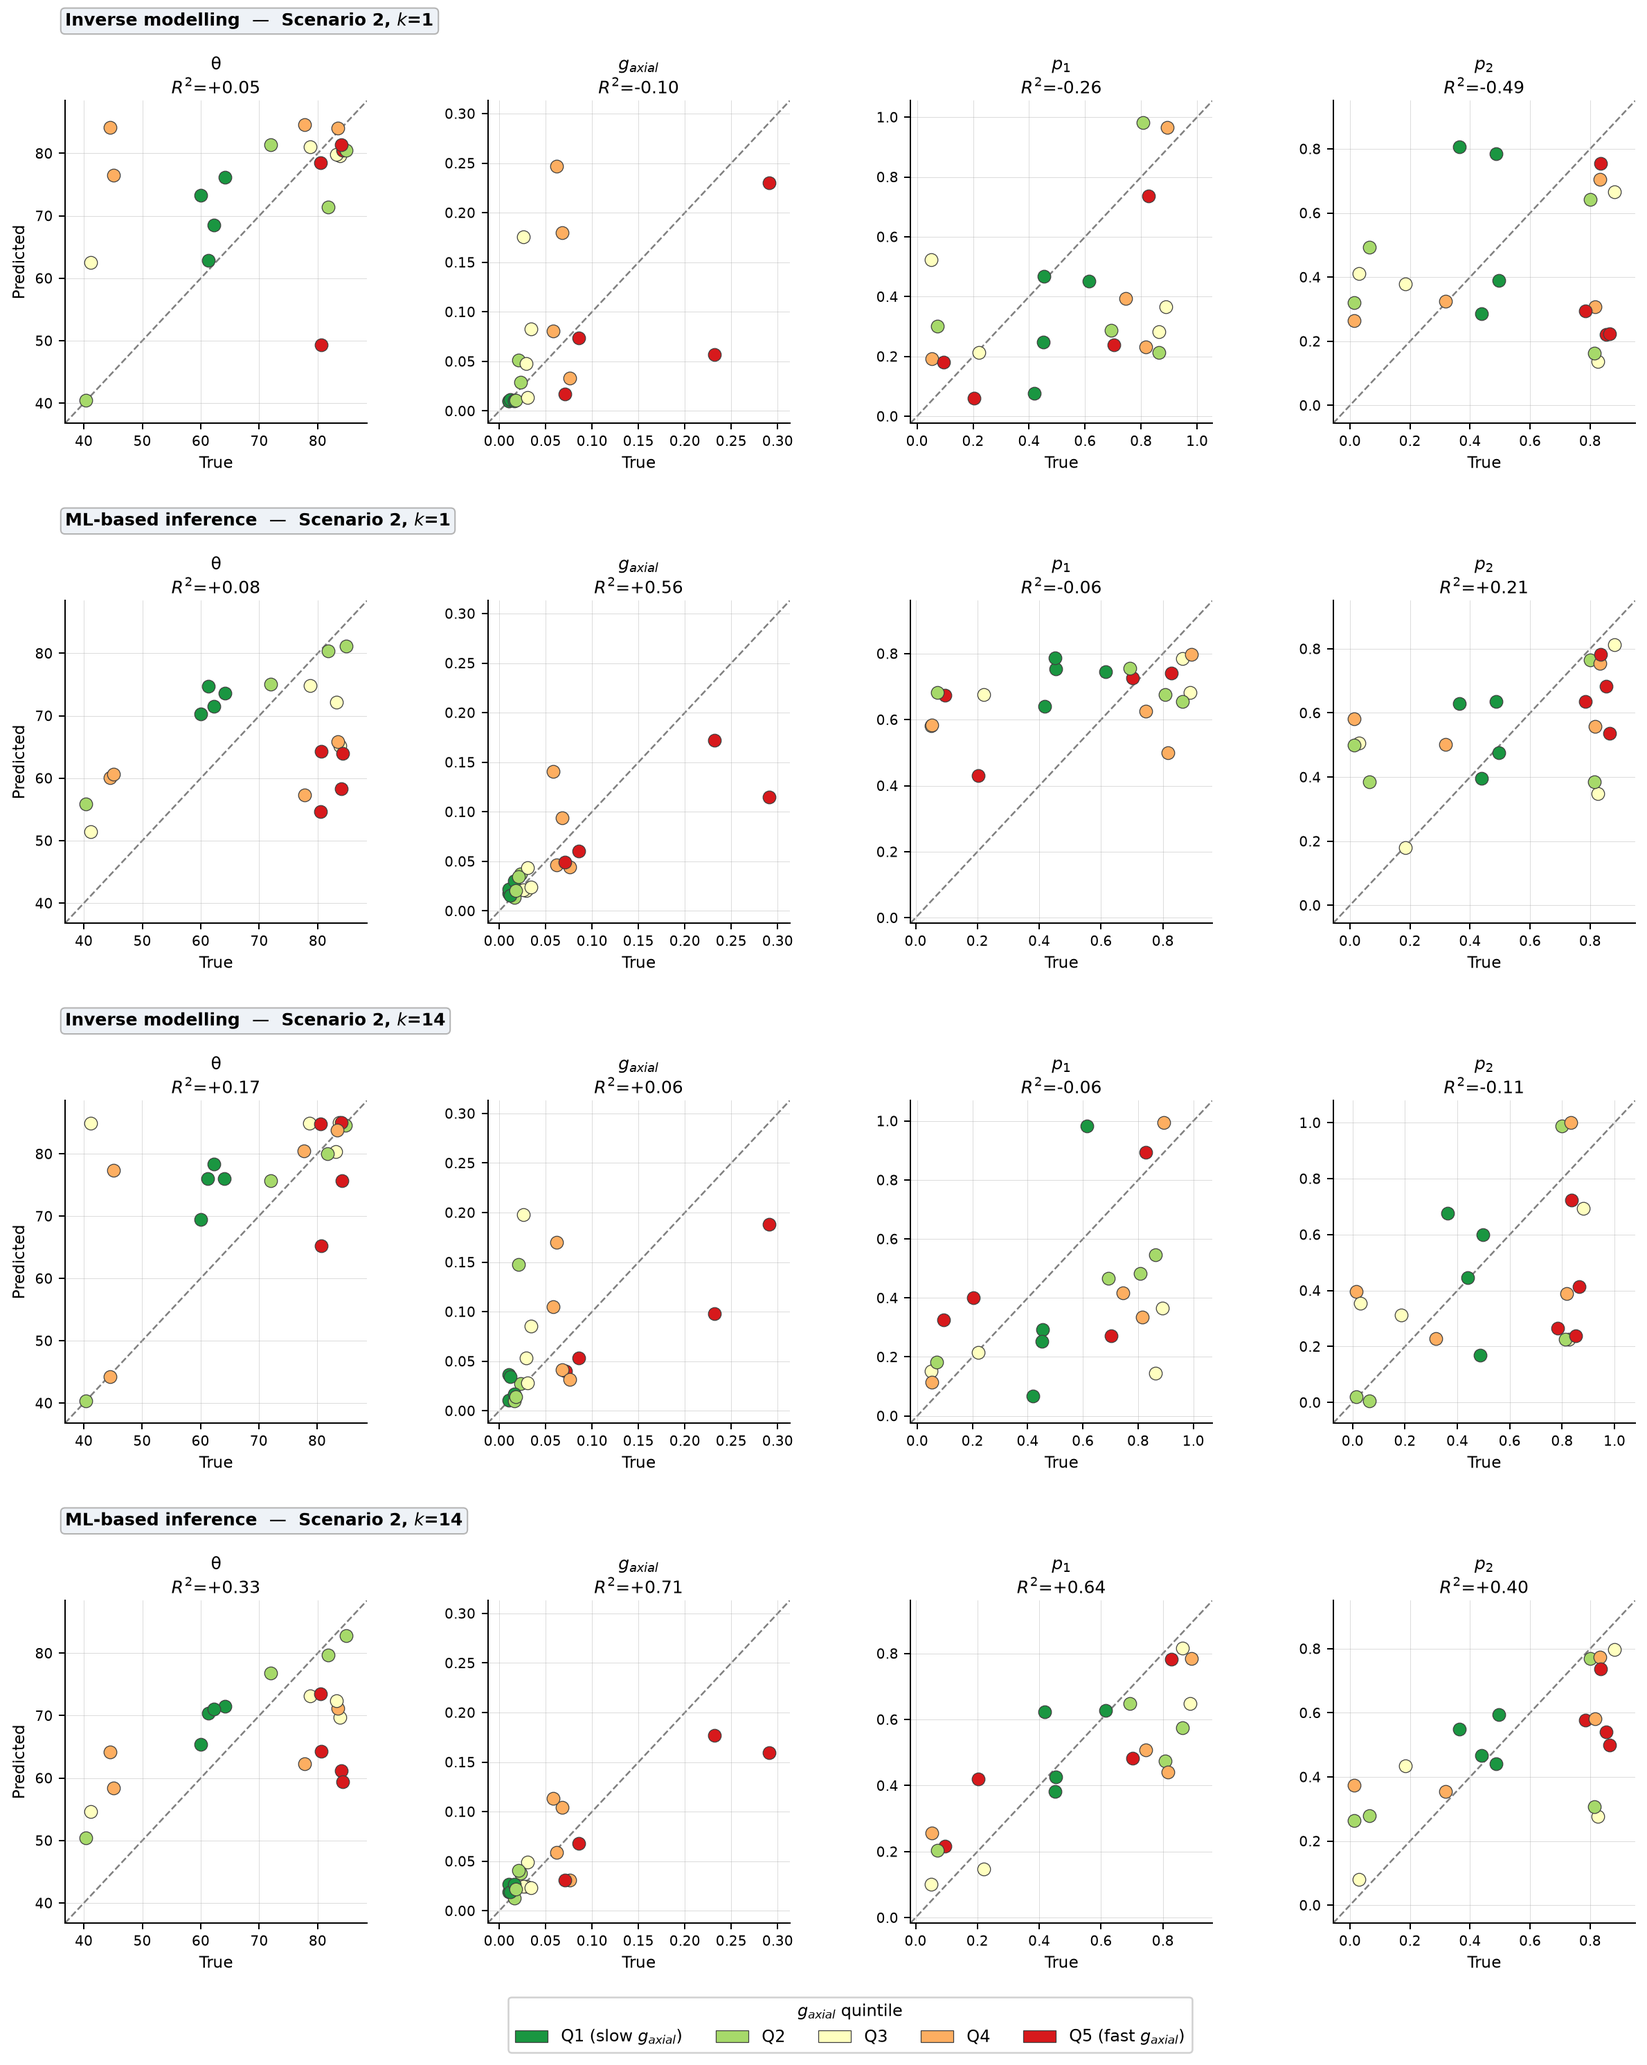
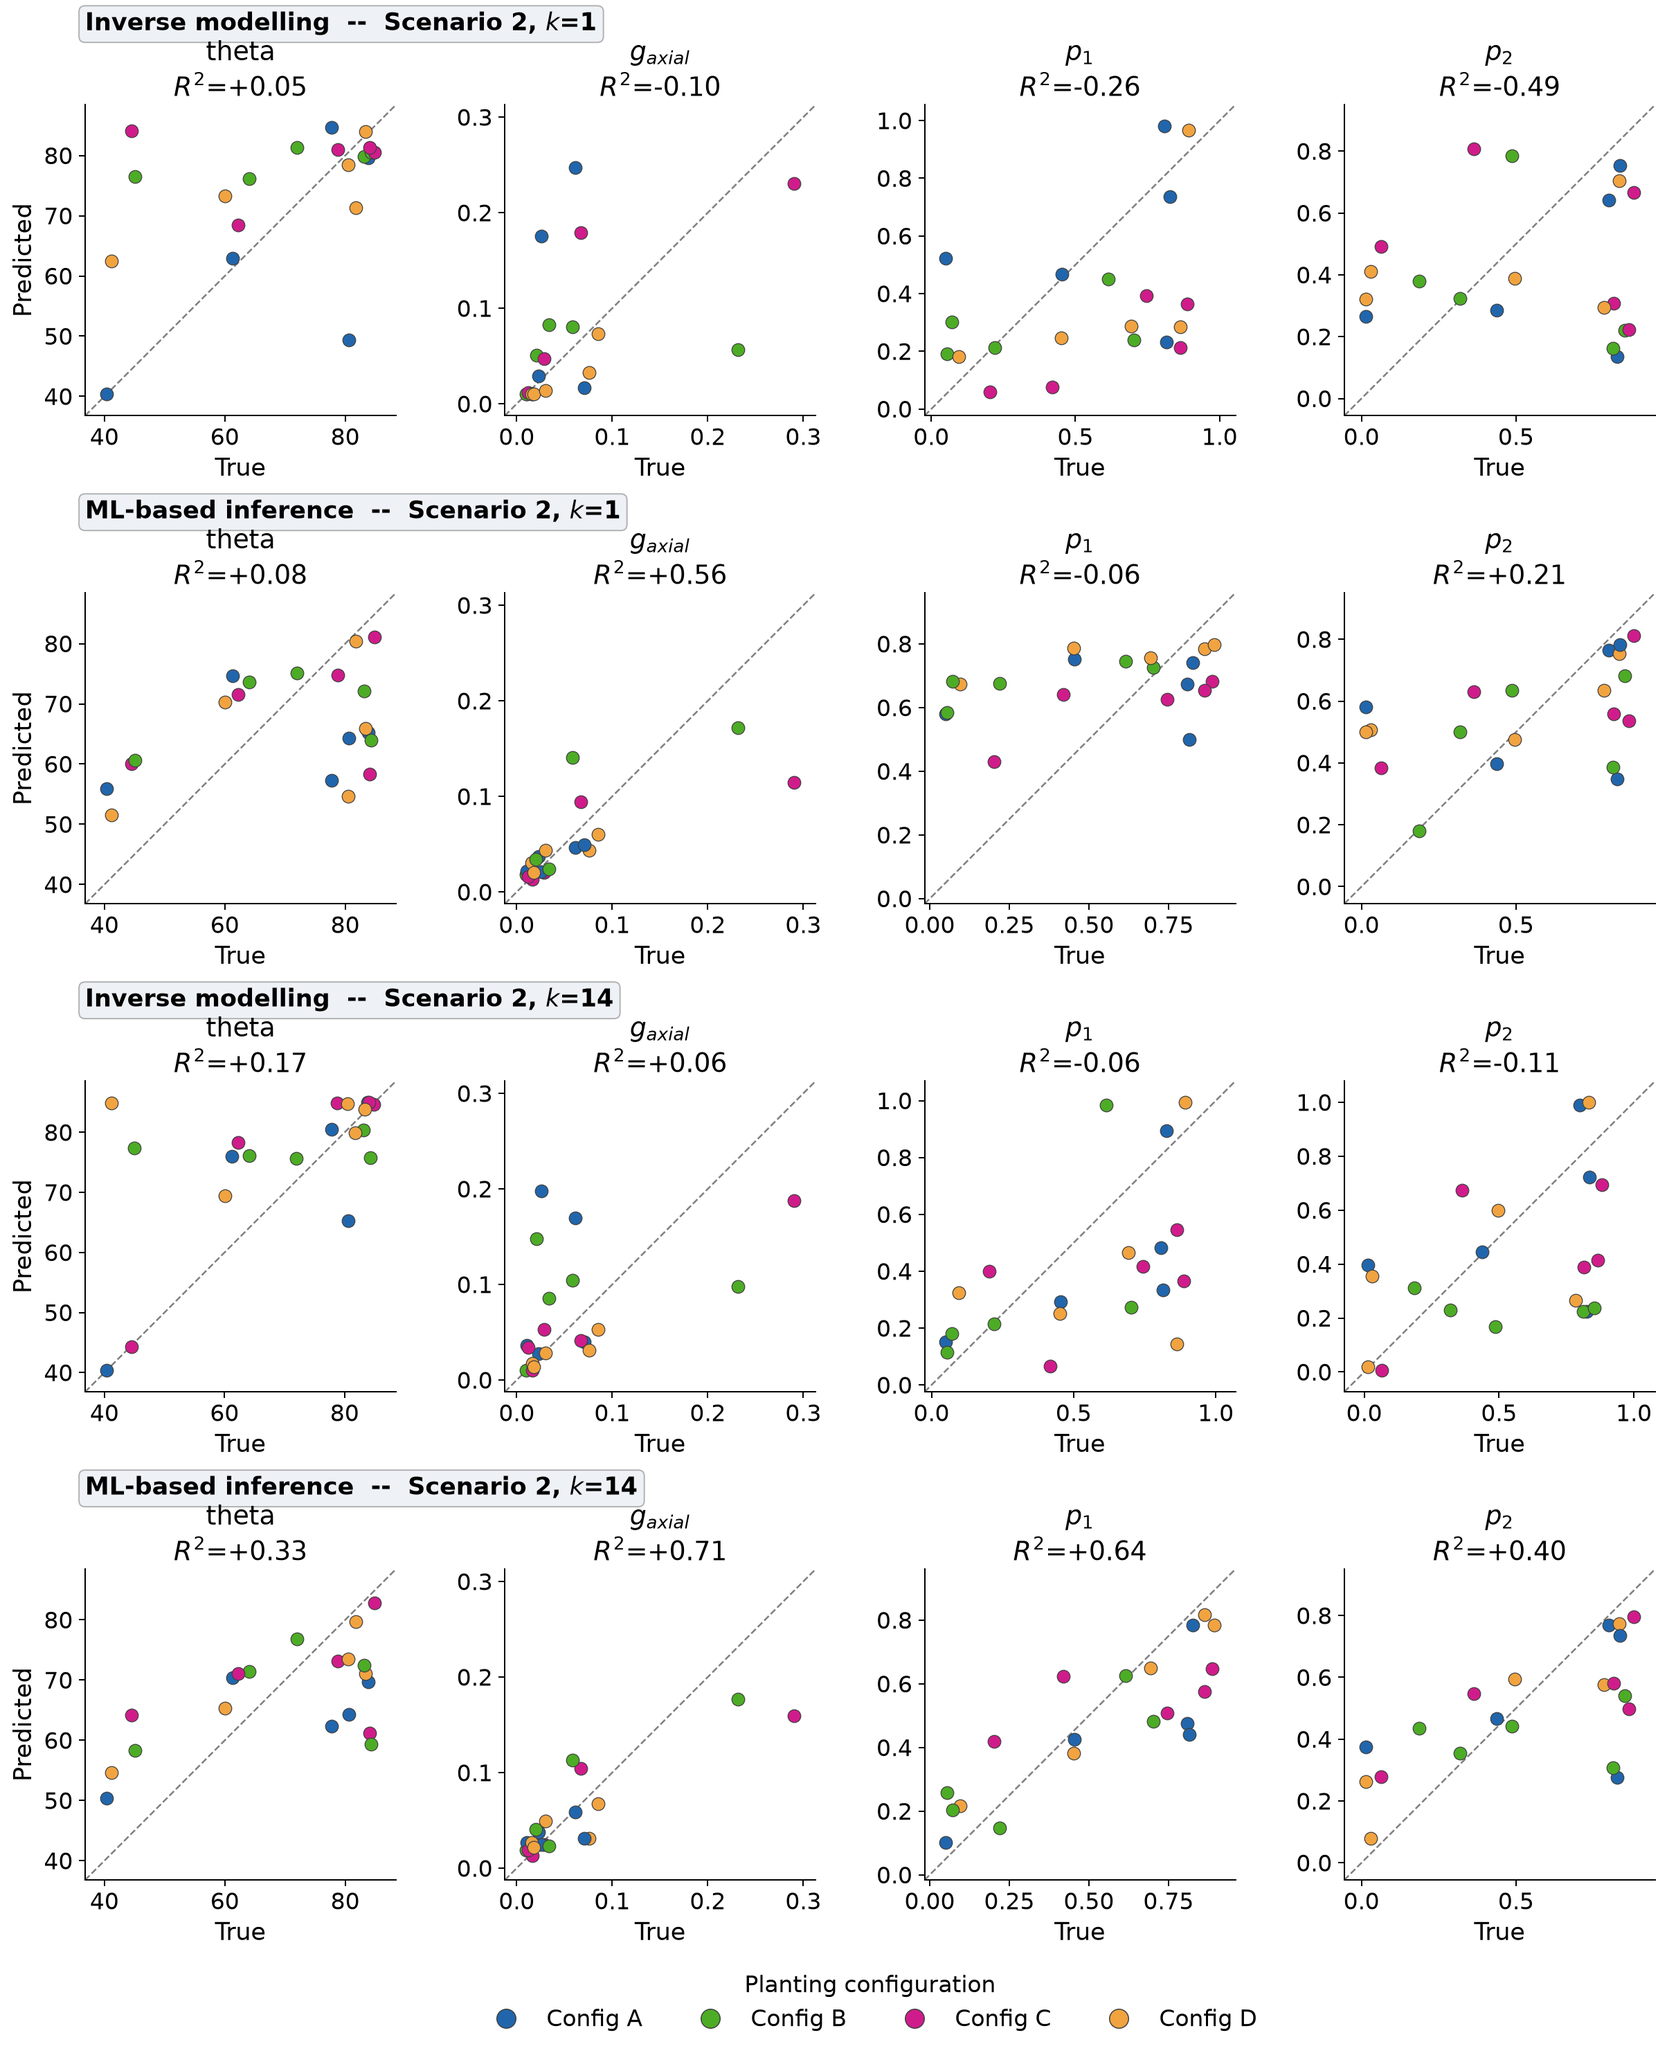
Apply same style updates to Fig S2 and S3 as Fig 3/4
- Color by planting configuration (A/B/C/D) instead of g_axial quintile
- Circle legend markers (Line2D marker="o"), frameon=False
- Larger fonts: titles 12-15pt, axis labels 11-14pt, ticks 10-13pt
- Narrower spacing (hspace=0.45, wspace=0.35)
- Remove grid lines (ax.grid(False))
- Add set_aspect("equal") for 1:1 axes

diff --git a/publication/scripts/plot_figS3_parameter_recovery_k1_k14_s2.py b/publication/scripts/plot_figS3_parameter_recovery_k1_k14_s2.py
@@ -2,9 +2,9 @@
 plot_figS3_parameter_recovery_k1_k14_s2.py
 
 Figure S3 — Parameter recovery at k=1 and k=14, Scenario 2 (4 arch params).
-Layout: 4 rows × 4 cols
-  Rows 0–1: k=1  (CMA-ES, TabICL)
-  Rows 2–3: k=14 (CMA-ES, TabICL)
+Layout: 4 rows x 4 cols
+  Rows 0-1: k=1  (CMA-ES, TabICL)
+  Rows 2-3: k=14 (CMA-ES, TabICL)
 
 Run from project root:
   python3 publication/scripts/plot_figS3_parameter_recovery_k1_k14_s2.py
@@ -17,7 +17,7 @@ import pandas as pd
 import matplotlib
 matplotlib.use("Agg")
 import matplotlib.pyplot as plt
-import matplotlib.patches as mpatches
+from matplotlib.lines import Line2D
 
 ROOT    = os.path.join(os.path.dirname(os.path.abspath(__file__)), "..", "..")
 CALIB   = os.path.join(ROOT, "calibration")
@@ -29,16 +29,14 @@ TC_CSV  = os.path.join(CALIB, "test_cases_selected_v2.csv")
 ARCH_PARAMS = ["branch_angle_order1", "g_axial",
                "branching_prob_order1", "branching_prob_order2"]
 PARAM_LABELS = {
-    "branch_angle_order1":   "θ",
+    "branch_angle_order1":   "theta",
     "g_axial":               "$g_{axial}$",
     "branching_prob_order1": "$p_1$",
     "branching_prob_order2": "$p_2$",
 }
-Q_ORDER  = ["Q1", "Q2", "Q3", "Q4", "Q5"]
-Q_COLORS = {"Q1": "#1a9641", "Q2": "#a6d96a", "Q3": "#ffffbf",
-            "Q4": "#fdae61", "Q5": "#d7191c"}
-Q_LABELS = {"Q1": "Q1 (slow $g_{axial}$)", "Q2": "Q2", "Q3": "Q3",
-            "Q4": "Q4", "Q5": "Q5 (fast $g_{axial}$)"}
+CFG_ORDER  = ["A", "B2", "C", "D2"]
+CFG_COLORS = {"A": "#2166ac", "B2": "#4dac26", "C": "#d01c8b", "D2": "#f1a340"}
+CFG_LABEL  = {"A": "Config A", "B2": "Config B", "C": "Config C", "D2": "Config D"}
 
 K_CONFIGS = [
     {"k": 1,  "cma_suffix": "s2",
@@ -67,8 +65,7 @@ def load_cmae(tc, suffix):
             continue
         with open(path) as f:
             bp = json.load(f)
-        row = {"config": r["config"], "sample_id": int(r["sample_id"]),
-               "g_axial_quintile": r["g_axial_quintile"]}
+        row = {"config": r["config"], "sample_id": int(r["sample_id"])}
         for p in ARCH_PARAMS:
             row[f"true_{p}"] = float(r[p])
             row[f"pred_{p}"] = float(bp[p]) if p in bp else float("nan")
@@ -84,8 +81,7 @@ def load_tabicl(tc, csv_path):
         tc_row = tc[(tc["sample_id"] == int(sid)) & (tc["config"] == cfg)]
         if len(tc_row) == 0:
             continue
-        row = {"config": cfg, "sample_id": int(sid),
-               "g_axial_quintile": tc_row["g_axial_quintile"].values[0]}
+        row = {"config": cfg, "sample_id": int(sid)}
         for p in ARCH_PARAMS:
             prow = grp[grp["parameter"] == p]
             row[f"true_{p}"] = float(prow["true_value"].values[0]) if len(prow) else float("nan")
@@ -102,14 +98,14 @@ for cfg in K_CONFIGS:
     cmae_df = load_cmae(tc, cfg["cma_suffix"])
     tab_df  = load_tabicl(tc, cfg["tab_csv"])
     print(f"k={k}: CMA-ES={len(cmae_df)}, TabICL={len(tab_df)}")
-    ROW_CONFIGS.append((cmae_df, f"Inverse modelling  —  Scenario 2, $k$={k}"))
-    ROW_CONFIGS.append((tab_df,  f"ML-based inference  —  Scenario 2, $k$={k}"))
+    ROW_CONFIGS.append((cmae_df, f"Inverse modelling  --  Scenario 2, $k$={k}"))
+    ROW_CONFIGS.append((tab_df,  f"ML-based inference  --  Scenario 2, $k$={k}"))
 
-# ── Plot 4×4 ──────────────────────────────────────────────────────────────────
+# Plot 4x4
 
 fig, axes = plt.subplots(4, 4, figsize=(14, 17))
-fig.subplots_adjust(left=0.07, right=0.97, top=0.93, bottom=0.07,
-                    hspace=0.55, wspace=0.40)
+fig.subplots_adjust(left=0.07, right=0.97, top=0.93, bottom=0.08,
+                    hspace=0.45, wspace=0.35)
 
 for row_idx, (df, row_label) in enumerate(ROW_CONFIGS):
     for col_idx, param in enumerate(ARCH_PARAMS):
@@ -130,37 +126,39 @@ for row_idx, (df, row_label) in enumerate(ROW_CONFIGS):
             if np.isnan(tv[idx]) or np.isnan(pv[idx]):
                 continue
             ax.scatter(tv[idx], pv[idx],
-                       color=Q_COLORS.get(r["g_axial_quintile"], "gray"),
+                       color=CFG_COLORS.get(r["config"], "gray"),
                        edgecolors="0.25", linewidths=0.5, s=55, zorder=3)
 
         r2 = r2_score(tv, pv)
         ax.set_xlim(lo, hi)
         ax.set_ylim(lo, hi)
-        ax.set_xlabel("True", fontsize=9)
-        ax.set_ylabel("Predicted", fontsize=9) if col_idx == 0 else ax.set_ylabel("")
-        ax.tick_params(labelsize=8)
-        ax.grid(True, lw=0.35, alpha=0.5)
+        ax.set_aspect("equal")
+        ax.set_xlabel("True", fontsize=14)
+        ax.set_ylabel("Predicted", fontsize=14) if col_idx == 0 else ax.set_ylabel("")
+        ax.tick_params(labelsize=13)
+        ax.grid(False)
         ax.spines["top"].set_visible(False)
         ax.spines["right"].set_visible(False)
-        ax.set_title(f"{PARAM_LABELS[param]}\n$R^2$={r2:+.2f}", fontsize=10, pad=4)
+        ax.set_title(f"{PARAM_LABELS[param]}\n$R^2$={r2:+.2f}", fontsize=15, pad=4)
 
     axes[row_idx, 0].annotate(
         row_label,
         xy=(0.0, 1.22), xycoords="axes fraction",
-        fontsize=10, fontweight="bold", ha="left", va="bottom",
+        fontsize=14, fontweight="bold", ha="left", va="bottom",
         bbox=dict(boxstyle="round,pad=0.25", fc="#eef2f7", ec="0.7", lw=0.8))
 
-# ── Legend ────────────────────────────────────────────────────────────────────
+# Legend
 
-legend_patches = [
-    mpatches.Patch(facecolor=Q_COLORS[q], edgecolor="0.25",
-                   linewidth=0.5, label=Q_LABELS[q])
-    for q in Q_ORDER
+legend_handles = [
+    Line2D([0], [0], marker="o", color="w",
+           markerfacecolor=CFG_COLORS[c], markeredgecolor="0.25",
+           markeredgewidth=0.6, markersize=11, label=CFG_LABEL[c])
+    for c in CFG_ORDER
 ]
-fig.legend(handles=legend_patches, title="$g_{axial}$ quintile",
-           loc="lower center", ncol=5, fontsize=9.5, title_fontsize=9.5,
-           framealpha=0.9, bbox_to_anchor=(0.52, 0.005))
+fig.legend(handles=legend_handles, title="Planting configuration",
+           loc="lower center", ncol=4, fontsize=13, title_fontsize=13,
+           frameon=False, bbox_to_anchor=(0.52, 0.005))
 
 os.makedirs(os.path.dirname(FIG_OUT), exist_ok=True)
 fig.savefig(FIG_OUT, dpi=180, bbox_inches="tight", facecolor="white")
-print(f"Saved → {FIG_OUT}")
+print(f"Saved -> {FIG_OUT}")

diff --git a/publication/scripts/plot_figS2_parameter_recovery_k1_k14.py b/publication/scripts/plot_figS2_parameter_recovery_k1_k14.py
@@ -2,9 +2,9 @@
 plot_figS2_parameter_recovery_k1_k14.py
 
 Figure S2 — Parameter recovery at k=1 and k=14, Scenario 1 (all 8 params).
-Layout: 4 rows × 8 cols
-  Rows 0–1: k=1  (CMA-ES, TabICL)
-  Rows 2–3: k=14 (CMA-ES, TabICL)
+Layout: 4 rows x 8 cols
+  Rows 0-1: k=1  (CMA-ES, TabICL)
+  Rows 2-3: k=14 (CMA-ES, TabICL)
 
 Run from project root:
   python3 publication/scripts/plot_figS2_parameter_recovery_k1_k14.py
@@ -17,7 +17,7 @@ import pandas as pd
 import matplotlib
 matplotlib.use("Agg")
 import matplotlib.pyplot as plt
-import matplotlib.patches as mpatches
+from matplotlib.lines import Line2D
 
 ROOT    = os.path.join(os.path.dirname(os.path.abspath(__file__)), "..", "..")
 CALIB   = os.path.join(ROOT, "calibration")
@@ -36,16 +36,14 @@ PARAM_LABELS = {
     "elongation_rate_max":    "$r_{max}$",
     "elongation_logistic_k":  "$k_e$",
     "elongation_logistic_t50":"$t_{50}$",
-    "branch_angle_order1":    "θ",
+    "branch_angle_order1":    "theta",
     "g_axial":                "$g_{axial}$",
     "branching_prob_order1":  "$p_1$",
     "branching_prob_order2":  "$p_2$",
 }
-Q_ORDER  = ["Q1", "Q2", "Q3", "Q4", "Q5"]
-Q_COLORS = {"Q1": "#1a9641", "Q2": "#a6d96a", "Q3": "#ffffbf",
-            "Q4": "#fdae61", "Q5": "#d7191c"}
-Q_LABELS = {"Q1": "Q1 (slow $g_{axial}$)", "Q2": "Q2", "Q3": "Q3",
-            "Q4": "Q4", "Q5": "Q5 (fast $g_{axial}$)"}
+CFG_ORDER  = ["A", "B2", "C", "D2"]
+CFG_COLORS = {"A": "#2166ac", "B2": "#4dac26", "C": "#d01c8b", "D2": "#f1a340"}
+CFG_LABEL  = {"A": "Config A", "B2": "Config B", "C": "Config C", "D2": "Config D"}
 
 K_CONFIGS = [
     {"k": 1,  "cma_suffix": "s1",
@@ -74,8 +72,7 @@ def load_cmae(tc, suffix):
             continue
         with open(path) as f:
             bp = json.load(f)
-        row = {"config": r["config"], "sample_id": int(r["sample_id"]),
-               "g_axial_quintile": r["g_axial_quintile"]}
+        row = {"config": r["config"], "sample_id": int(r["sample_id"])}
         for p in ALL_PARAMS:
             row[f"true_{p}"] = float(r[p]) if p in r.index else float("nan")
             row[f"pred_{p}"] = float(bp[p]) if p in bp else float("nan")
@@ -91,8 +88,7 @@ def load_tabicl(tc, csv_path):
         tc_row = tc[(tc["sample_id"] == int(sid)) & (tc["config"] == cfg)]
         if len(tc_row) == 0:
             continue
-        row = {"config": cfg, "sample_id": int(sid),
-               "g_axial_quintile": tc_row["g_axial_quintile"].values[0]}
+        row = {"config": cfg, "sample_id": int(sid)}
         for p in ALL_PARAMS:
             prow = grp[grp["parameter"] == p]
             row[f"true_{p}"] = float(prow["true_value"].values[0]) if len(prow) else float("nan")
@@ -109,14 +105,14 @@ for cfg in K_CONFIGS:
     cmae_df = load_cmae(tc, cfg["cma_suffix"])
     tab_df  = load_tabicl(tc, cfg["tab_csv"])
     print(f"k={k}: CMA-ES={len(cmae_df)}, TabICL={len(tab_df)}")
-    ROW_CONFIGS.append((cmae_df, f"Inverse modelling  —  Scenario 1, $k$={k}"))
-    ROW_CONFIGS.append((tab_df,  f"ML-based inference  —  Scenario 1, $k$={k}"))
+    ROW_CONFIGS.append((cmae_df, f"Inverse modelling  --  Scenario 1, $k$={k}"))
+    ROW_CONFIGS.append((tab_df,  f"ML-based inference  --  Scenario 1, $k$={k}"))
 
-# ── Plot 4×8 ──────────────────────────────────────────────────────────────────
+# Plot 4x8
 
 fig, axes = plt.subplots(4, 8, figsize=(26, 17))
-fig.subplots_adjust(left=0.04, right=0.98, top=0.93, bottom=0.07,
-                    hspace=0.55, wspace=0.42)
+fig.subplots_adjust(left=0.04, right=0.98, top=0.93, bottom=0.08,
+                    hspace=0.45, wspace=0.35)
 
 for row_idx, (df, row_label) in enumerate(ROW_CONFIGS):
     for col_idx, param in enumerate(ALL_PARAMS):
@@ -142,37 +138,39 @@ for row_idx, (df, row_label) in enumerate(ROW_CONFIGS):
             if np.isnan(tv[idx]) or np.isnan(pv[idx]):
                 continue
             ax.scatter(tv[idx], pv[idx],
-                       color=Q_COLORS.get(r["g_axial_quintile"], "gray"),
+                       color=CFG_COLORS.get(r["config"], "gray"),
                        edgecolors="0.25", linewidths=0.5, s=45, zorder=3)
 
         r2 = r2_score(tv, pv)
         ax.set_xlim(lo, hi)
         ax.set_ylim(lo, hi)
-        ax.set_xlabel("True", fontsize=9)
-        ax.set_ylabel("Predicted", fontsize=9) if col_idx == 0 else ax.set_ylabel("")
-        ax.tick_params(labelsize=8)
-        ax.grid(True, lw=0.35, alpha=0.5)
+        ax.set_aspect("equal")
+        ax.set_xlabel("True", fontsize=11)
+        ax.set_ylabel("Predicted", fontsize=11) if col_idx == 0 else ax.set_ylabel("")
+        ax.tick_params(labelsize=10)
+        ax.grid(False)
         ax.spines["top"].set_visible(False)
         ax.spines["right"].set_visible(False)
-        ax.set_title(f"{PARAM_LABELS[param]}\n$R^2$={r2:+.2f}", fontsize=10, pad=3)
+        ax.set_title(f"{PARAM_LABELS[param]}\n$R^2$={r2:+.2f}", fontsize=12, pad=3)
 
     axes[row_idx, 0].annotate(
         row_label,
         xy=(0.0, 1.24), xycoords="axes fraction",
-        fontsize=10, fontweight="bold", ha="left", va="bottom",
+        fontsize=12, fontweight="bold", ha="left", va="bottom",
         bbox=dict(boxstyle="round,pad=0.28", fc="#eef2f7", ec="0.7", lw=0.8))
 
-# ── Legend ────────────────────────────────────────────────────────────────────
+# Legend
 
-legend_patches = [
-    mpatches.Patch(facecolor=Q_COLORS[q], edgecolor="0.25",
-                   linewidth=0.5, label=Q_LABELS[q])
-    for q in Q_ORDER
+legend_handles = [
+    Line2D([0], [0], marker="o", color="w",
+           markerfacecolor=CFG_COLORS[c], markeredgecolor="0.25",
+           markeredgewidth=0.6, markersize=11, label=CFG_LABEL[c])
+    for c in CFG_ORDER
 ]
-fig.legend(handles=legend_patches, title="$g_{axial}$ quintile",
-           loc="lower center", ncol=5, fontsize=9.5, title_fontsize=9.5,
-           framealpha=0.9, bbox_to_anchor=(0.52, 0.005))
+fig.legend(handles=legend_handles, title="Planting configuration",
+           loc="lower center", ncol=4, fontsize=12, title_fontsize=12,
+           frameon=False, bbox_to_anchor=(0.52, 0.005))
 
 os.makedirs(os.path.dirname(FIG_OUT), exist_ok=True)
 fig.savefig(FIG_OUT, dpi=180, bbox_inches="tight", facecolor="white")
-print(f"Saved → {FIG_OUT}")
+print(f"Saved -> {FIG_OUT}")
